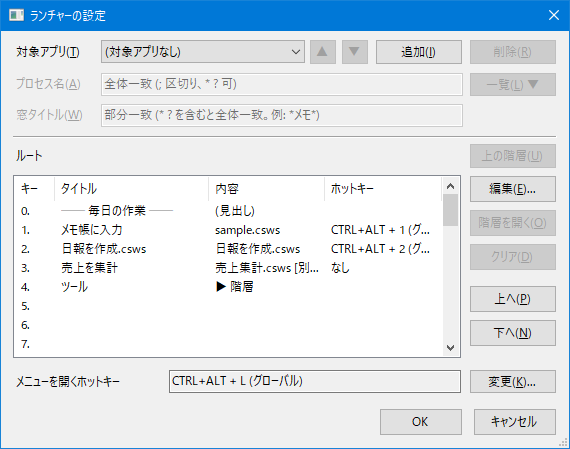
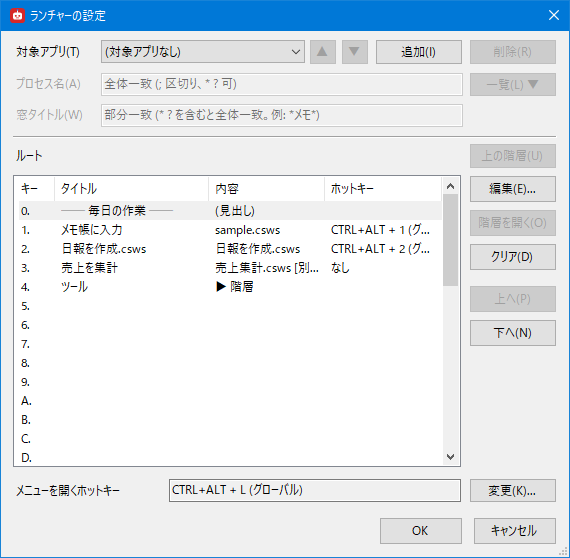
README の画像を現在の画面に撮り直し、ダイアログのアイコンをアプリのものにする

Changed region(s): [[0.0, 0.0, 1.0, 0.9042], [0.0, 0.8107, 1.0, 1.0], [0.8351, 0.6548, 0.9842, 0.7795]]

diff --git a/src/CsWSC.UI/Program.cs b/src/CsWSC.UI/Program.cs
@@ -175,6 +175,6 @@ static class Program {
 
 public class Form : System.Windows.Forms.Form {
 	public Form() {
-		this.Icon = System.Drawing.SystemIcons.Application;
+		this.Icon = Properties.Resources.AppIcon;
 	}
 }
